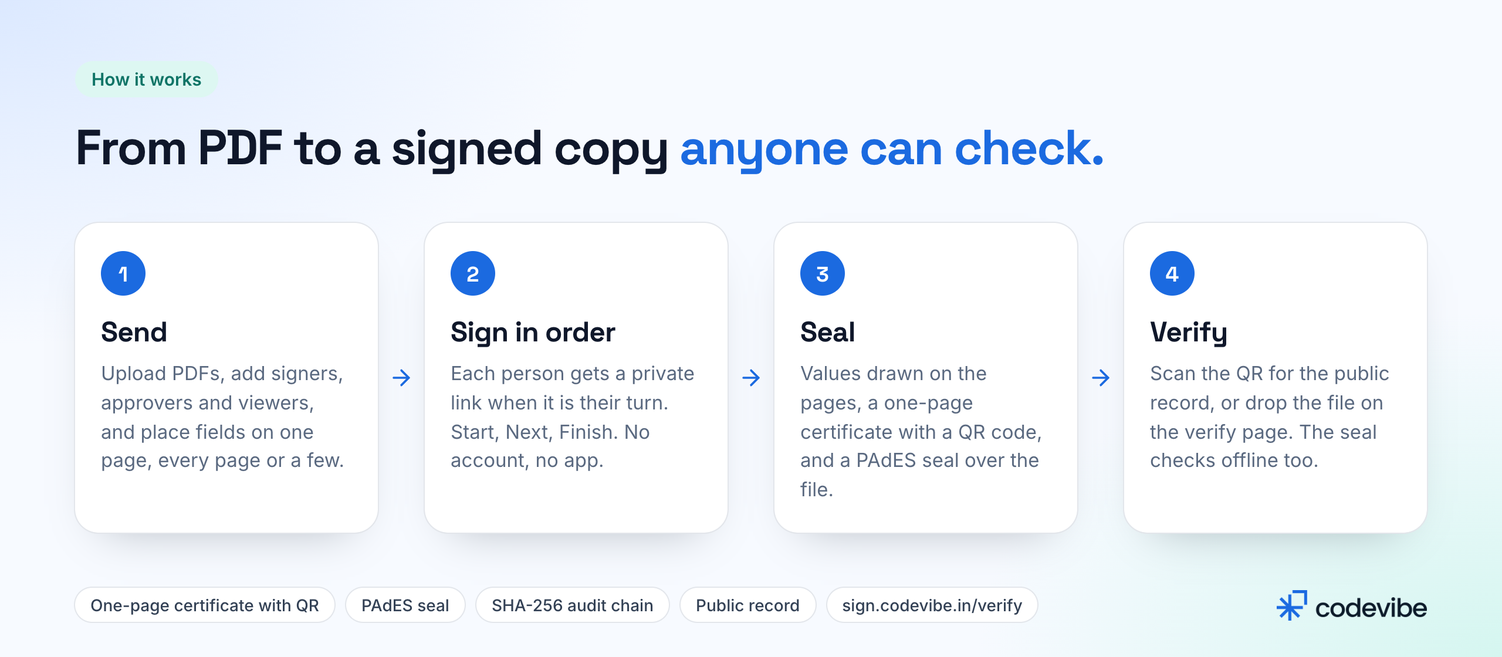
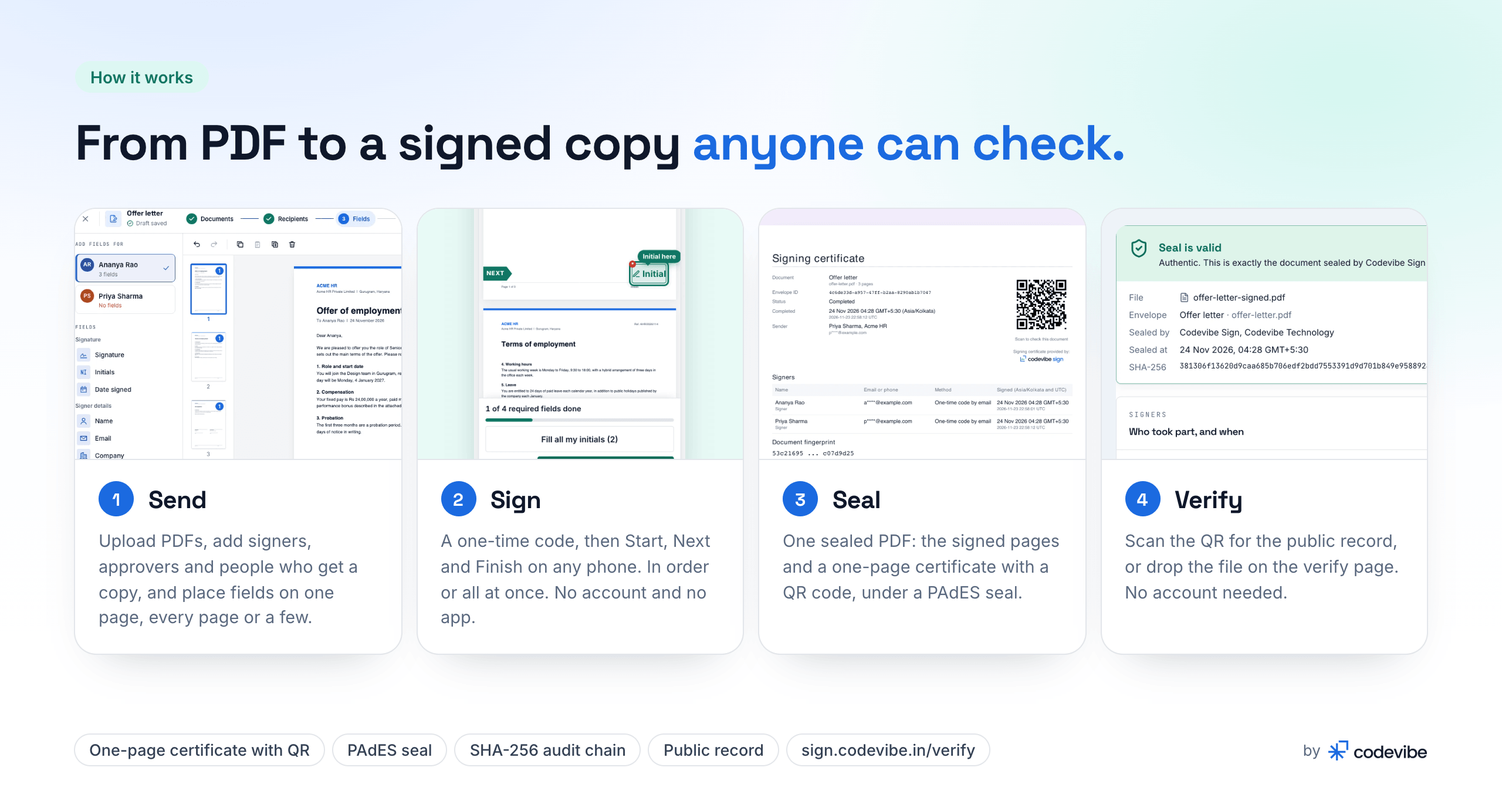
docs: redraw the readme and package images from the current app
The banner, demo, feature, step and verify images show the redesigned
send flow and signer pages. New plans and Aadhaar eSign images join
the README, and the sign-aadhaar README shows the Aadhaar one.

diff --git a/README.md b/README.md
@@ -1,15 +1,15 @@
 <p align="center">
-  <a href="https://sign.codevibe.in?utm_source=github&utm_medium=readme&utm_campaign=codevibe-sign&utm_content=banner"><img src=".github/assets/banner.png" alt="Codevibe Sign: send it, sign it, seal it, and prove it to anyone. A sealed PDF with a PAdES seal and a hash-chained audit trail. Free cloud, or self-host with no limits." width="100%"></a>
+  <a href="https://sign.codevibe.in?utm_source=github&utm_medium=readme&utm_campaign=codevibe-sign&utm_content=banner"><img src=".github/assets/banner.png" alt="Codevibe Sign. Get documents signed. Keep the proof. PDF e-signatures, Aadhaar eSign, API and webhooks, and self-hosting, installed with npm i codevibe-sign. Beside it, the dashboard of a sample workspace and the signing page on a phone." width="100%"></a>
 </p>
 
 <p align="center">
-  <a href="https://github.com/codevibe-technology/codevibe-sign/actions/workflows/ci.yml"><img src="https://img.shields.io/github/actions/workflow/status/codevibe-technology/codevibe-sign/ci.yml?branch=main&style=flat-square&label=CI&labelColor=0A1525" alt="CI"></a>
-  <a href="LICENSING.md"><img src="https://img.shields.io/badge/libraries-Apache--2.0-2DD4BF?style=flat-square&labelColor=0A1525" alt="Libraries: Apache-2.0"></a>
-  <a href="LICENSING.md"><img src="https://img.shields.io/badge/server%20%26%20app-AGPL--3.0-1B6AE0?style=flat-square&labelColor=0A1525" alt="Server and app: AGPL-3.0"></a>
-  <img src="https://img.shields.io/badge/Node.js-22%2B-1B6AE0?style=flat-square&labelColor=0A1525" alt="Node.js 22+">
-  <img src="https://img.shields.io/badge/TypeScript-strict-1B6AE0?style=flat-square&labelColor=0A1525" alt="TypeScript">
-  <img src="https://img.shields.io/badge/status-pre--release-F5B547?style=flat-square&labelColor=0A1525" alt="Status: pre-release">
-  <a href="https://sign.codevibe.in?utm_source=github&utm_medium=readme&utm_campaign=codevibe-sign&utm_content=badge"><img src="https://img.shields.io/badge/cloud-free%20plan-2DD4BF?style=flat-square&labelColor=0A1525" alt="Free cloud plan"></a>
+  <a href="https://github.com/codevibe-technology/codevibe-sign/actions/workflows/ci.yml"><img src="https://img.shields.io/github/actions/workflow/status/codevibe-technology/codevibe-sign/ci.yml?branch=main&style=flat-square&label=CI&labelColor=0D1B2A" alt="CI"></a>
+  <a href="LICENSING.md"><img src="https://img.shields.io/badge/libraries-Apache--2.0-2DD4BF?style=flat-square&labelColor=0D1B2A" alt="Libraries: Apache-2.0"></a>
+  <a href="LICENSING.md"><img src="https://img.shields.io/badge/server%20%26%20app-AGPL--3.0-1B6AE0?style=flat-square&labelColor=0D1B2A" alt="Server and app: AGPL-3.0"></a>
+  <img src="https://img.shields.io/badge/Node.js-22%2B-1B6AE0?style=flat-square&labelColor=0D1B2A" alt="Node.js 22+">
+  <img src="https://img.shields.io/badge/TypeScript-strict-1B6AE0?style=flat-square&labelColor=0D1B2A" alt="TypeScript">
+  <img src="https://img.shields.io/badge/status-pre--release-F5B547?style=flat-square&labelColor=0D1B2A" alt="Status: pre-release">
+  <a href="https://sign.codevibe.in?utm_source=github&utm_medium=readme&utm_campaign=codevibe-sign&utm_content=badge"><img src="https://img.shields.io/badge/cloud-free%20plan-2DD4BF?style=flat-square&labelColor=0D1B2A" alt="Free cloud plan"></a>
 </p>
 
 <p align="center">
@@ -17,7 +17,7 @@
 </p>
 
 <p align="center">
-  <img src=".github/assets/demo.gif" alt="Codevibe Sign in 30 seconds: a PDF is sent with initials on two pages and signature boxes for two people, signed on a phone with a one-time code, sealed with a one-page certificate and a QR code, and checked on the verify page" width="100%">
+  <img src=".github/assets/demo.gif" alt="Codevibe Sign in about 30 seconds: a PDF is uploaded, two recipients are added, initials go on every page and then on pages 1 and 3, signature and date boxes are placed for two people and the envelope is sent; the first person signs on a phone with a one-time code and Start, Next and Finish; the result is one sealed PDF with a one-page certificate and a QR code, and the verify page says the seal is valid" width="100%">
 </p>
 
 <p align="center">
@@ -25,6 +25,7 @@
   <a href="#features">Features</a> ·
   <a href="#how-it-works">How it works</a> ·
   <a href="#verify-a-signed-pdf">Verify a PDF</a> ·
+  <a href="#aadhaar-esign">Aadhaar eSign</a> ·
   <a href="#plans">Plans</a> ·
   <a href="#packages">Packages</a> ·
   <a href="#using-the-libraries">Libraries</a> ·
@@ -98,7 +99,7 @@ npm i codevibe-sign
 ## How it works
 
 <p align="center">
-  <img src=".github/assets/how-it-works.png" alt="How Codevibe Sign works: send with fields on one page, all pages or specific pages; sign in order with Start, Next and Finish; seal with a one-page certificate and a QR code; verify on the public record or the verify page" width="100%">
+  <img src=".github/assets/how-it-works.png" alt="How Codevibe Sign works, with a screen for each step: send with fields on one page, every page or a few; sign on a phone with a one-time code and Start, Next and Finish; seal into one PDF with a one-page certificate and a QR code; verify on the public record or the verify page" width="100%">
 </p>
 
 1. **Send.** The sender creates an envelope: documents, recipients, fields and routing. Each
@@ -115,7 +116,7 @@ npm i codevibe-sign
 ## Verify a signed PDF
 
 <p align="center">
-  <img src=".github/assets/verify.png" alt="The public verify page at sign.codevibe.in/verify showing a valid seal, the signers and an intact audit chain, beside the details of the seal certificate and its SHA-256 fingerprint" width="100%">
+  <img src=".github/assets/verify.png" alt="The verify page showing a sample sealed offer letter: the seal is valid, sealed by Codevibe Sign, Codevibe Technology, and signed by two people. Beside it, the seal certificate: CN=Codevibe Sign, O=Codevibe Technology, C=IN, RSA 3072, self-signed, PAdES with SHA-256, and its published SHA-256 fingerprint" width="100%">
 </p>
 
 Anyone who receives a PDF signed with Codevibe Sign can check it, with no account:
@@ -137,7 +138,27 @@ Anyone who receives a PDF signed with Codevibe Sign can check it, with no accoun
 
 What a PDF reader shows for the seal is explained in [How the seal works in PDF readers](https://sign.codevibe.in/docs/guides/seal-in-pdf-readers?utm_source=github&utm_medium=readme&utm_campaign=codevibe-sign&utm_content=verify-guide). If you self-host, your files are sealed with **your own** certificate, and you publish its fingerprint the same way.
 
+## Aadhaar eSign
+
+<p align="center">
+  <img src=".github/assets/aadhaar.png" alt="Aadhaar eSign through Leegality in three steps: pick Aadhaar eSign for a signer in the send flow, they confirm with an OTP on Leegality's page, and one sealed PDF comes back with the certificate page and an audit trail PDF. The send flow is shown with a signer set to Aadhaar eSign. One eSign costs Rs 35 on the Free plan and Rs 25 on Cloud, plus GST, paid only when it is completed. An illustration of the OTP step." width="100%">
+</p>
+
+When a law asks for an electronic signature listed in the IT Act's Second Schedule, pick
+Aadhaar eSign for a signer under Identity check in the send flow. They confirm with a one-time
+code on Leegality's page; Codevibe Sign never sees or stores their Aadhaar number. You get back
+one sealed PDF with their Aadhaar signature, the seal and the certificate page, plus an audit
+trail PDF. One Aadhaar signer per envelope for now.
+
+An eSign costs Rs 35 on Free and Rs 25 on Cloud, plus GST, from prepaid credits, and only a
+completed eSign is charged. On Cloud you can connect your own Leegality account instead, and
+self-hosted installs use their own.
+
 ## Plans
+
+<p align="center">
+  <img src=".github/assets/plans.png" alt="The three plans. Free: Rs 0, 1 workspace, 10 envelopes a month, 2 members, Aadhaar eSign Rs 35 per eSign. Cloud, recommended: Rs 999 a month or Rs 9,990 a year, unlimited workspaces and envelopes, 25 members then Rs 99 each a month, Aadhaar eSign Rs 25 per eSign. Self-hosted: free and unlimited on your own server, with installation help for Rs 1,999 plus GST within 4 working hours and Hostinger VPS 20% off with code CODEVIBE20. All prices are plus 18% GST." width="100%">
+</p>
 
 <!-- plans:start -->
 

diff --git a/packages/aadhaar/README.md b/packages/aadhaar/README.md
@@ -1,13 +1,13 @@
 <p align="center">
-  <a href="https://sign.codevibe.in?utm_source=github&utm_medium=readme&utm_campaign=sign-aadhaar&utm_content=banner"><img src="https://raw.githubusercontent.com/codevibe-technology/codevibe-sign/main/.github/assets/packages/aadhaar.png" alt="@codevibe_technology/sign-aadhaar: Aadhaar eSign through a licensed eSign provider, with your own account." width="100%"></a>
+  <a href="https://sign.codevibe.in?utm_source=github&utm_medium=readme&utm_campaign=sign-aadhaar&utm_content=banner"><img src="https://raw.githubusercontent.com/codevibe-technology/codevibe-sign/main/.github/assets/packages/aadhaar.png" alt="@codevibe_technology/sign-aadhaar: Aadhaar eSign through a licensed eSign provider, with your own provider account. Apache-2.0, Node 22 or later, one of the eight Codevibe Sign packages." width="100%"></a>
 </p>
 
 <p align="center">
-  <a href="https://www.npmjs.com/package/@codevibe_technology/sign-aadhaar"><img src="https://img.shields.io/npm/v/@codevibe_technology/sign-aadhaar?style=flat-square&color=1B6AE0&labelColor=0A1525" alt="npm version"></a>
-  <a href="https://www.npmjs.com/package/@codevibe_technology/sign-aadhaar"><img src="https://img.shields.io/npm/dm/@codevibe_technology/sign-aadhaar?style=flat-square&color=1B6AE0&labelColor=0A1525" alt="npm downloads"></a>
-  <img src="https://img.shields.io/badge/license-Apache--2.0-2DD4BF?style=flat-square&labelColor=0A1525" alt="License: Apache-2.0">
-  <img src="https://img.shields.io/badge/Node.js-22%2B-1B6AE0?style=flat-square&labelColor=0A1525" alt="Node.js 22+">
-  <a href="https://github.com/codevibe-technology/codevibe-sign"><img src="https://img.shields.io/badge/part%20of-Codevibe%20Sign-2DD4BF?style=flat-square&labelColor=0A1525" alt="Part of Codevibe Sign"></a>
+  <a href="https://www.npmjs.com/package/@codevibe_technology/sign-aadhaar"><img src="https://img.shields.io/npm/v/@codevibe_technology/sign-aadhaar?style=flat-square&color=1B6AE0&labelColor=0D1B2A" alt="npm version"></a>
+  <a href="https://www.npmjs.com/package/@codevibe_technology/sign-aadhaar"><img src="https://img.shields.io/npm/dm/@codevibe_technology/sign-aadhaar?style=flat-square&color=1B6AE0&labelColor=0D1B2A" alt="npm downloads"></a>
+  <img src="https://img.shields.io/badge/license-Apache--2.0-2DD4BF?style=flat-square&labelColor=0D1B2A" alt="License: Apache-2.0">
+  <img src="https://img.shields.io/badge/Node.js-22%2B-1B6AE0?style=flat-square&labelColor=0D1B2A" alt="Node.js 22+">
+  <a href="https://github.com/codevibe-technology/codevibe-sign"><img src="https://img.shields.io/badge/part%20of-Codevibe%20Sign-2DD4BF?style=flat-square&labelColor=0D1B2A" alt="Part of Codevibe Sign"></a>
 </p>
 
 <p align="center">
@@ -29,6 +29,10 @@ a recipient with `auth: 'aadhaar'` is sent to the provider, the callback is veri
 signed file is kept and sealed, and the audit trail records it (see "Aadhaar eSign" in the
 server README). The web app does the same from its settings. You can also call the provider
 from your own backend, as shown below, and store the signed file yourself.
+
+<p align="center">
+  <img src="https://raw.githubusercontent.com/codevibe-technology/codevibe-sign/main/.github/assets/aadhaar.png" alt="Aadhaar eSign in the Codevibe Sign app, in three steps: pick Aadhaar eSign for a signer in the send flow, they confirm with an OTP on Leegality's page, and one sealed PDF comes back with the certificate page and an audit trail PDF. On the hosted app one eSign costs Rs 35 on the Free plan and Rs 25 on Cloud, plus GST, paid only when it is completed. An illustration of the OTP step." width="100%">
+</p>
 
 ## What Aadhaar eSign is
 

diff --git a/packages/templates/README.md b/packages/templates/README.md
@@ -1,13 +1,13 @@
 <p align="center">
-  <a href="https://sign.codevibe.in?utm_source=github&utm_medium=readme&utm_campaign=sign-templates&utm_content=banner"><img src="https://raw.githubusercontent.com/codevibe-technology/codevibe-sign/main/.github/assets/packages/templates.png" alt="@codevibe_technology/sign-templates: Templates with roles and prefilled fields, and bulk send from CSV." width="100%"></a>
+  <a href="https://sign.codevibe.in?utm_source=github&utm_medium=readme&utm_campaign=sign-templates&utm_content=banner"><img src="https://raw.githubusercontent.com/codevibe-technology/codevibe-sign/main/.github/assets/packages/templates.png" alt="@codevibe_technology/sign-templates: Reusable signing templates with roles and prefilled fields, and bulk send from CSV. Apache-2.0, Node 22 or later, one of the eight Codevibe Sign packages." width="100%"></a>
 </p>
 
 <p align="center">
-  <a href="https://www.npmjs.com/package/@codevibe_technology/sign-templates"><img src="https://img.shields.io/npm/v/@codevibe_technology/sign-templates?style=flat-square&color=1B6AE0&labelColor=0A1525" alt="npm version"></a>
-  <a href="https://www.npmjs.com/package/@codevibe_technology/sign-templates"><img src="https://img.shields.io/npm/dm/@codevibe_technology/sign-templates?style=flat-square&color=1B6AE0&labelColor=0A1525" alt="npm downloads"></a>
-  <img src="https://img.shields.io/badge/license-Apache--2.0-2DD4BF?style=flat-square&labelColor=0A1525" alt="License: Apache-2.0">
-  <img src="https://img.shields.io/badge/Node.js-22%2B-1B6AE0?style=flat-square&labelColor=0A1525" alt="Node.js 22+">
-  <a href="https://github.com/codevibe-technology/codevibe-sign"><img src="https://img.shields.io/badge/part%20of-Codevibe%20Sign-2DD4BF?style=flat-square&labelColor=0A1525" alt="Part of Codevibe Sign"></a>
+  <a href="https://www.npmjs.com/package/@codevibe_technology/sign-templates"><img src="https://img.shields.io/npm/v/@codevibe_technology/sign-templates?style=flat-square&color=1B6AE0&labelColor=0D1B2A" alt="npm version"></a>
+  <a href="https://www.npmjs.com/package/@codevibe_technology/sign-templates"><img src="https://img.shields.io/npm/dm/@codevibe_technology/sign-templates?style=flat-square&color=1B6AE0&labelColor=0D1B2A" alt="npm downloads"></a>
+  <img src="https://img.shields.io/badge/license-Apache--2.0-2DD4BF?style=flat-square&labelColor=0D1B2A" alt="License: Apache-2.0">
+  <img src="https://img.shields.io/badge/Node.js-22%2B-1B6AE0?style=flat-square&labelColor=0D1B2A" alt="Node.js 22+">
+  <a href="https://github.com/codevibe-technology/codevibe-sign"><img src="https://img.shields.io/badge/part%20of-Codevibe%20Sign-2DD4BF?style=flat-square&labelColor=0D1B2A" alt="Part of Codevibe Sign"></a>
 </p>
 
 <p align="center">

diff --git a/packages/client/README.md b/packages/client/README.md
@@ -1,13 +1,13 @@
 <p align="center">
-  <a href="https://sign.codevibe.in?utm_source=github&utm_medium=readme&utm_campaign=sign-client&utm_content=banner"><img src="https://raw.githubusercontent.com/codevibe-technology/codevibe-sign/main/.github/assets/packages/client.png" alt="@codevibe_technology/sign-client: Typed client for the HTTP API, signing sessions and webhook checks. No dependencies." width="100%"></a>
+  <a href="https://sign.codevibe.in?utm_source=github&utm_medium=readme&utm_campaign=sign-client&utm_content=banner"><img src="https://raw.githubusercontent.com/codevibe-technology/codevibe-sign/main/.github/assets/packages/client.png" alt="@codevibe_technology/sign-client: A typed client for the Codevibe Sign HTTP API, signing sessions and webhooks. Apache-2.0, Node 22 or later, one of the eight Codevibe Sign packages." width="100%"></a>
 </p>
 
 <p align="center">
-  <a href="https://www.npmjs.com/package/@codevibe_technology/sign-client"><img src="https://img.shields.io/npm/v/@codevibe_technology/sign-client?style=flat-square&color=1B6AE0&labelColor=0A1525" alt="npm version"></a>
-  <a href="https://www.npmjs.com/package/@codevibe_technology/sign-client"><img src="https://img.shields.io/npm/dm/@codevibe_technology/sign-client?style=flat-square&color=1B6AE0&labelColor=0A1525" alt="npm downloads"></a>
-  <img src="https://img.shields.io/badge/license-Apache--2.0-2DD4BF?style=flat-square&labelColor=0A1525" alt="License: Apache-2.0">
-  <img src="https://img.shields.io/badge/Node.js-22%2B-1B6AE0?style=flat-square&labelColor=0A1525" alt="Node.js 22+">
-  <a href="https://github.com/codevibe-technology/codevibe-sign"><img src="https://img.shields.io/badge/part%20of-Codevibe%20Sign-2DD4BF?style=flat-square&labelColor=0A1525" alt="Part of Codevibe Sign"></a>
+  <a href="https://www.npmjs.com/package/@codevibe_technology/sign-client"><img src="https://img.shields.io/npm/v/@codevibe_technology/sign-client?style=flat-square&color=1B6AE0&labelColor=0D1B2A" alt="npm version"></a>
+  <a href="https://www.npmjs.com/package/@codevibe_technology/sign-client"><img src="https://img.shields.io/npm/dm/@codevibe_technology/sign-client?style=flat-square&color=1B6AE0&labelColor=0D1B2A" alt="npm downloads"></a>
+  <img src="https://img.shields.io/badge/license-Apache--2.0-2DD4BF?style=flat-square&labelColor=0D1B2A" alt="License: Apache-2.0">
+  <img src="https://img.shields.io/badge/Node.js-22%2B-1B6AE0?style=flat-square&labelColor=0D1B2A" alt="Node.js 22+">
+  <a href="https://github.com/codevibe-technology/codevibe-sign"><img src="https://img.shields.io/badge/part%20of-Codevibe%20Sign-2DD4BF?style=flat-square&labelColor=0D1B2A" alt="Part of Codevibe Sign"></a>
 </p>
 
 <p align="center">

diff --git a/packages/core/README.md b/packages/core/README.md
@@ -1,13 +1,13 @@
 <p align="center">
-  <a href="https://sign.codevibe.in?utm_source=github&utm_medium=readme&utm_campaign=sign-core&utm_content=banner"><img src="https://raw.githubusercontent.com/codevibe-technology/codevibe-sign/main/.github/assets/packages/core.png" alt="@codevibe_technology/sign-core: Envelopes, routing, reminders, expiry and a hash-chained audit log. No I/O." width="100%"></a>
+  <a href="https://sign.codevibe.in?utm_source=github&utm_medium=readme&utm_campaign=sign-core&utm_content=banner"><img src="https://raw.githubusercontent.com/codevibe-technology/codevibe-sign/main/.github/assets/packages/core.png" alt="@codevibe_technology/sign-core: Envelopes, recipients, the signing workflow and a hash-chained audit log. Pure TypeScript, no I/O. Apache-2.0, Node 22 or later, one of the eight Codevibe Sign packages." width="100%"></a>
 </p>
 
 <p align="center">
-  <a href="https://www.npmjs.com/package/@codevibe_technology/sign-core"><img src="https://img.shields.io/npm/v/@codevibe_technology/sign-core?style=flat-square&color=1B6AE0&labelColor=0A1525" alt="npm version"></a>
-  <a href="https://www.npmjs.com/package/@codevibe_technology/sign-core"><img src="https://img.shields.io/npm/dm/@codevibe_technology/sign-core?style=flat-square&color=1B6AE0&labelColor=0A1525" alt="npm downloads"></a>
-  <img src="https://img.shields.io/badge/license-Apache--2.0-2DD4BF?style=flat-square&labelColor=0A1525" alt="License: Apache-2.0">
-  <img src="https://img.shields.io/badge/Node.js-22%2B-1B6AE0?style=flat-square&labelColor=0A1525" alt="Node.js 22+">
-  <a href="https://github.com/codevibe-technology/codevibe-sign"><img src="https://img.shields.io/badge/part%20of-Codevibe%20Sign-2DD4BF?style=flat-square&labelColor=0A1525" alt="Part of Codevibe Sign"></a>
+  <a href="https://www.npmjs.com/package/@codevibe_technology/sign-core"><img src="https://img.shields.io/npm/v/@codevibe_technology/sign-core?style=flat-square&color=1B6AE0&labelColor=0D1B2A" alt="npm version"></a>
+  <a href="https://www.npmjs.com/package/@codevibe_technology/sign-core"><img src="https://img.shields.io/npm/dm/@codevibe_technology/sign-core?style=flat-square&color=1B6AE0&labelColor=0D1B2A" alt="npm downloads"></a>
+  <img src="https://img.shields.io/badge/license-Apache--2.0-2DD4BF?style=flat-square&labelColor=0D1B2A" alt="License: Apache-2.0">
+  <img src="https://img.shields.io/badge/Node.js-22%2B-1B6AE0?style=flat-square&labelColor=0D1B2A" alt="Node.js 22+">
+  <a href="https://github.com/codevibe-technology/codevibe-sign"><img src="https://img.shields.io/badge/part%20of-Codevibe%20Sign-2DD4BF?style=flat-square&labelColor=0D1B2A" alt="Part of Codevibe Sign"></a>
 </p>
 
 <p align="center">

diff --git a/packages/pdf/README.md b/packages/pdf/README.md
@@ -1,13 +1,13 @@
 <p align="center">
-  <a href="https://sign.codevibe.in?utm_source=github&utm_medium=readme&utm_campaign=sign-pdf&utm_content=banner"><img src="https://raw.githubusercontent.com/codevibe-technology/codevibe-sign/main/.github/assets/packages/pdf.png" alt="@codevibe_technology/sign-pdf: Draws fields, appends the certificate page, seals with PAdES and verifies the seal." width="100%"></a>
+  <a href="https://sign.codevibe.in?utm_source=github&utm_medium=readme&utm_campaign=sign-pdf&utm_content=banner"><img src="https://raw.githubusercontent.com/codevibe-technology/codevibe-sign/main/.github/assets/packages/pdf.png" alt="@codevibe_technology/sign-pdf: Draws signatures on PDFs, adds the signing certificate page, and applies or verifies a PAdES seal. Apache-2.0, Node 22 or later, one of the eight Codevibe Sign packages." width="100%"></a>
 </p>
 
 <p align="center">
-  <a href="https://www.npmjs.com/package/@codevibe_technology/sign-pdf"><img src="https://img.shields.io/npm/v/@codevibe_technology/sign-pdf?style=flat-square&color=1B6AE0&labelColor=0A1525" alt="npm version"></a>
-  <a href="https://www.npmjs.com/package/@codevibe_technology/sign-pdf"><img src="https://img.shields.io/npm/dm/@codevibe_technology/sign-pdf?style=flat-square&color=1B6AE0&labelColor=0A1525" alt="npm downloads"></a>
-  <img src="https://img.shields.io/badge/license-Apache--2.0-2DD4BF?style=flat-square&labelColor=0A1525" alt="License: Apache-2.0">
-  <img src="https://img.shields.io/badge/Node.js-22%2B-1B6AE0?style=flat-square&labelColor=0A1525" alt="Node.js 22+">
-  <a href="https://github.com/codevibe-technology/codevibe-sign"><img src="https://img.shields.io/badge/part%20of-Codevibe%20Sign-2DD4BF?style=flat-square&labelColor=0A1525" alt="Part of Codevibe Sign"></a>
+  <a href="https://www.npmjs.com/package/@codevibe_technology/sign-pdf"><img src="https://img.shields.io/npm/v/@codevibe_technology/sign-pdf?style=flat-square&color=1B6AE0&labelColor=0D1B2A" alt="npm version"></a>
+  <a href="https://www.npmjs.com/package/@codevibe_technology/sign-pdf"><img src="https://img.shields.io/npm/dm/@codevibe_technology/sign-pdf?style=flat-square&color=1B6AE0&labelColor=0D1B2A" alt="npm downloads"></a>
+  <img src="https://img.shields.io/badge/license-Apache--2.0-2DD4BF?style=flat-square&labelColor=0D1B2A" alt="License: Apache-2.0">
+  <img src="https://img.shields.io/badge/Node.js-22%2B-1B6AE0?style=flat-square&labelColor=0D1B2A" alt="Node.js 22+">
+  <a href="https://github.com/codevibe-technology/codevibe-sign"><img src="https://img.shields.io/badge/part%20of-Codevibe%20Sign-2DD4BF?style=flat-square&labelColor=0D1B2A" alt="Part of Codevibe Sign"></a>
 </p>
 
 <p align="center">

diff --git a/packages/react/README.md b/packages/react/README.md
@@ -1,13 +1,13 @@
 <p align="center">
-  <a href="https://sign.codevibe.in?utm_source=github&utm_medium=readme&utm_campaign=sign-react&utm_content=banner"><img src="https://raw.githubusercontent.com/codevibe-technology/codevibe-sign/main/.github/assets/packages/react.png" alt="@codevibe_technology/sign-react: Signature pad, signing view and field placer for your own React app." width="100%"></a>
+  <a href="https://sign.codevibe.in?utm_source=github&utm_medium=readme&utm_campaign=sign-react&utm_content=banner"><img src="https://raw.githubusercontent.com/codevibe-technology/codevibe-sign/main/.github/assets/packages/react.png" alt="@codevibe_technology/sign-react: React components for signing: a signature pad, the signing view and field placement. Apache-2.0, Node 22 or later, one of the eight Codevibe Sign packages." width="100%"></a>
 </p>
 
 <p align="center">
-  <a href="https://www.npmjs.com/package/@codevibe_technology/sign-react"><img src="https://img.shields.io/npm/v/@codevibe_technology/sign-react?style=flat-square&color=1B6AE0&labelColor=0A1525" alt="npm version"></a>
-  <a href="https://www.npmjs.com/package/@codevibe_technology/sign-react"><img src="https://img.shields.io/npm/dm/@codevibe_technology/sign-react?style=flat-square&color=1B6AE0&labelColor=0A1525" alt="npm downloads"></a>
-  <img src="https://img.shields.io/badge/license-Apache--2.0-2DD4BF?style=flat-square&labelColor=0A1525" alt="License: Apache-2.0">
-  <img src="https://img.shields.io/badge/Node.js-22%2B-1B6AE0?style=flat-square&labelColor=0A1525" alt="Node.js 22+">
-  <a href="https://github.com/codevibe-technology/codevibe-sign"><img src="https://img.shields.io/badge/part%20of-Codevibe%20Sign-2DD4BF?style=flat-square&labelColor=0A1525" alt="Part of Codevibe Sign"></a>
+  <a href="https://www.npmjs.com/package/@codevibe_technology/sign-react"><img src="https://img.shields.io/npm/v/@codevibe_technology/sign-react?style=flat-square&color=1B6AE0&labelColor=0D1B2A" alt="npm version"></a>
+  <a href="https://www.npmjs.com/package/@codevibe_technology/sign-react"><img src="https://img.shields.io/npm/dm/@codevibe_technology/sign-react?style=flat-square&color=1B6AE0&labelColor=0D1B2A" alt="npm downloads"></a>
+  <img src="https://img.shields.io/badge/license-Apache--2.0-2DD4BF?style=flat-square&labelColor=0D1B2A" alt="License: Apache-2.0">
+  <img src="https://img.shields.io/badge/Node.js-22%2B-1B6AE0?style=flat-square&labelColor=0D1B2A" alt="Node.js 22+">
+  <a href="https://github.com/codevibe-technology/codevibe-sign"><img src="https://img.shields.io/badge/part%20of-Codevibe%20Sign-2DD4BF?style=flat-square&labelColor=0D1B2A" alt="Part of Codevibe Sign"></a>
 </p>
 
 <p align="center">

diff --git a/packages/server/README.md b/packages/server/README.md
@@ -1,13 +1,13 @@
 <p align="center">
-  <a href="https://sign.codevibe.in?utm_source=github&utm_medium=readme&utm_campaign=sign-server&utm_content=banner"><img src="https://raw.githubusercontent.com/codevibe-technology/codevibe-sign/main/.github/assets/packages/server.png" alt="@codevibe_technology/sign-server: The HTTP API and runtime: storage, mail, one-time codes, webhooks and sealing." width="100%"></a>
+  <a href="https://sign.codevibe.in?utm_source=github&utm_medium=readme&utm_campaign=sign-server&utm_content=banner"><img src="https://raw.githubusercontent.com/codevibe-technology/codevibe-sign/main/.github/assets/packages/server.png" alt="@codevibe_technology/sign-server: The HTTP API and runtime for sending, signing and sealing documents. AGPL-3.0, Node 22 or later, one of the eight Codevibe Sign packages." width="100%"></a>
 </p>
 
 <p align="center">
-  <a href="https://www.npmjs.com/package/@codevibe_technology/sign-server"><img src="https://img.shields.io/npm/v/@codevibe_technology/sign-server?style=flat-square&color=1B6AE0&labelColor=0A1525" alt="npm version"></a>
-  <a href="https://www.npmjs.com/package/@codevibe_technology/sign-server"><img src="https://img.shields.io/npm/dm/@codevibe_technology/sign-server?style=flat-square&color=1B6AE0&labelColor=0A1525" alt="npm downloads"></a>
-  <img src="https://img.shields.io/badge/license-AGPL--3.0-1B6AE0?style=flat-square&labelColor=0A1525" alt="License: AGPL-3.0">
-  <img src="https://img.shields.io/badge/Node.js-22%2B-1B6AE0?style=flat-square&labelColor=0A1525" alt="Node.js 22+">
-  <a href="https://github.com/codevibe-technology/codevibe-sign"><img src="https://img.shields.io/badge/part%20of-Codevibe%20Sign-2DD4BF?style=flat-square&labelColor=0A1525" alt="Part of Codevibe Sign"></a>
+  <a href="https://www.npmjs.com/package/@codevibe_technology/sign-server"><img src="https://img.shields.io/npm/v/@codevibe_technology/sign-server?style=flat-square&color=1B6AE0&labelColor=0D1B2A" alt="npm version"></a>
+  <a href="https://www.npmjs.com/package/@codevibe_technology/sign-server"><img src="https://img.shields.io/npm/dm/@codevibe_technology/sign-server?style=flat-square&color=1B6AE0&labelColor=0D1B2A" alt="npm downloads"></a>
+  <img src="https://img.shields.io/badge/license-AGPL--3.0-1B6AE0?style=flat-square&labelColor=0D1B2A" alt="License: AGPL-3.0">
+  <img src="https://img.shields.io/badge/Node.js-22%2B-1B6AE0?style=flat-square&labelColor=0D1B2A" alt="Node.js 22+">
+  <a href="https://github.com/codevibe-technology/codevibe-sign"><img src="https://img.shields.io/badge/part%20of-Codevibe%20Sign-2DD4BF?style=flat-square&labelColor=0D1B2A" alt="Part of Codevibe Sign"></a>
 </p>
 
 <p align="center">

diff --git a/packages/codevibe-sign/README.md b/packages/codevibe-sign/README.md
@@ -1,13 +1,13 @@
 <p align="center">
-  <a href="https://sign.codevibe.in?utm_source=github&utm_medium=readme&utm_campaign=codevibe-sign&utm_content=banner"><img src="https://raw.githubusercontent.com/codevibe-technology/codevibe-sign/main/.github/assets/packages/codevibe-sign.png" alt="codevibe-sign: The one library to install: API client, PDF tools, core rules, React components and a command line." width="100%"></a>
+  <a href="https://sign.codevibe.in?utm_source=github&utm_medium=readme&utm_campaign=codevibe-sign&utm_content=banner"><img src="https://raw.githubusercontent.com/codevibe-technology/codevibe-sign/main/.github/assets/packages/codevibe-sign.png" alt="codevibe-sign: The one library to install: the API client, PDF sealing and offline verify, React components and a CLI. Apache-2.0, Node 22 or later, one of the eight Codevibe Sign packages." width="100%"></a>
 </p>
 
 <p align="center">
-  <a href="https://www.npmjs.com/package/codevibe-sign"><img src="https://img.shields.io/npm/v/codevibe-sign?style=flat-square&color=1B6AE0&labelColor=0A1525" alt="npm version"></a>
-  <a href="https://www.npmjs.com/package/codevibe-sign"><img src="https://img.shields.io/npm/dm/codevibe-sign?style=flat-square&color=1B6AE0&labelColor=0A1525" alt="npm downloads"></a>
-  <img src="https://img.shields.io/badge/license-Apache--2.0-2DD4BF?style=flat-square&labelColor=0A1525" alt="License: Apache-2.0">
-  <img src="https://img.shields.io/badge/Node.js-22%2B-1B6AE0?style=flat-square&labelColor=0A1525" alt="Node.js 22+">
-  <a href="https://github.com/codevibe-technology/codevibe-sign"><img src="https://img.shields.io/badge/part%20of-Codevibe%20Sign-2DD4BF?style=flat-square&labelColor=0A1525" alt="Part of Codevibe Sign"></a>
+  <a href="https://www.npmjs.com/package/codevibe-sign"><img src="https://img.shields.io/npm/v/codevibe-sign?style=flat-square&color=1B6AE0&labelColor=0D1B2A" alt="npm version"></a>
+  <a href="https://www.npmjs.com/package/codevibe-sign"><img src="https://img.shields.io/npm/dm/codevibe-sign?style=flat-square&color=1B6AE0&labelColor=0D1B2A" alt="npm downloads"></a>
+  <img src="https://img.shields.io/badge/license-Apache--2.0-2DD4BF?style=flat-square&labelColor=0D1B2A" alt="License: Apache-2.0">
+  <img src="https://img.shields.io/badge/Node.js-22%2B-1B6AE0?style=flat-square&labelColor=0D1B2A" alt="Node.js 22+">
+  <a href="https://github.com/codevibe-technology/codevibe-sign"><img src="https://img.shields.io/badge/part%20of-Codevibe%20Sign-2DD4BF?style=flat-square&labelColor=0D1B2A" alt="Part of Codevibe Sign"></a>
 </p>
 
 <p align="center">

diff --git a/.changeset/readme-image-refresh.md b/.changeset/readme-image-refresh.md
@@ -1,0 +1,13 @@
+---
+'codevibe-sign': patch
+'@codevibe_technology/sign-core': patch
+'@codevibe_technology/sign-pdf': patch
+'@codevibe_technology/sign-client': patch
+'@codevibe_technology/sign-react': patch
+'@codevibe_technology/sign-templates': patch
+'@codevibe_technology/sign-aadhaar': patch
+'@codevibe_technology/sign-server': patch
+---
+
+The README banners are redrawn in one style with each package's current description, the
+badges use the brand navy, and the `sign-aadhaar` README shows how Aadhaar eSign works in the app.

diff --git a/CHANGELOG.md b/CHANGELOG.md
@@ -109,6 +109,8 @@ the minor version and says so in its first line.
   pull request.
 - The README, package and docs images are rendered from HTML in `.github/assets/src` with
   `pnpm assets:build`, from screenshots of the app with sample data.
+- The README shows the current app: a new banner and demo, the plans, Aadhaar eSign, and the
+  verify page with the published seal certificate. The package banners share one style.
 
 ---
 
